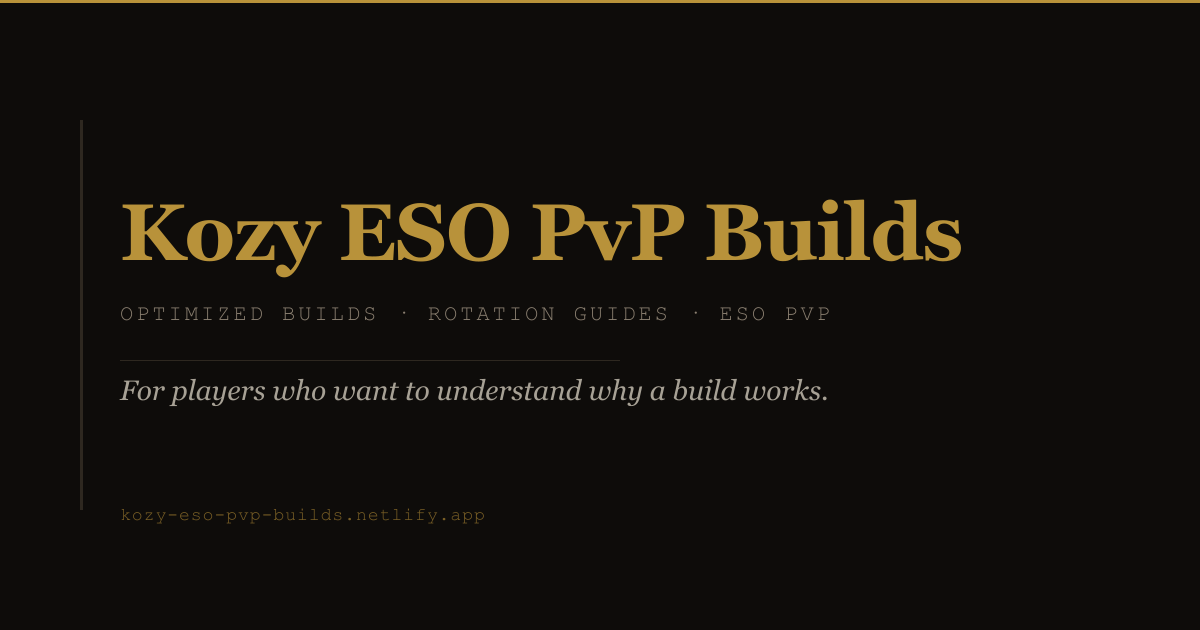
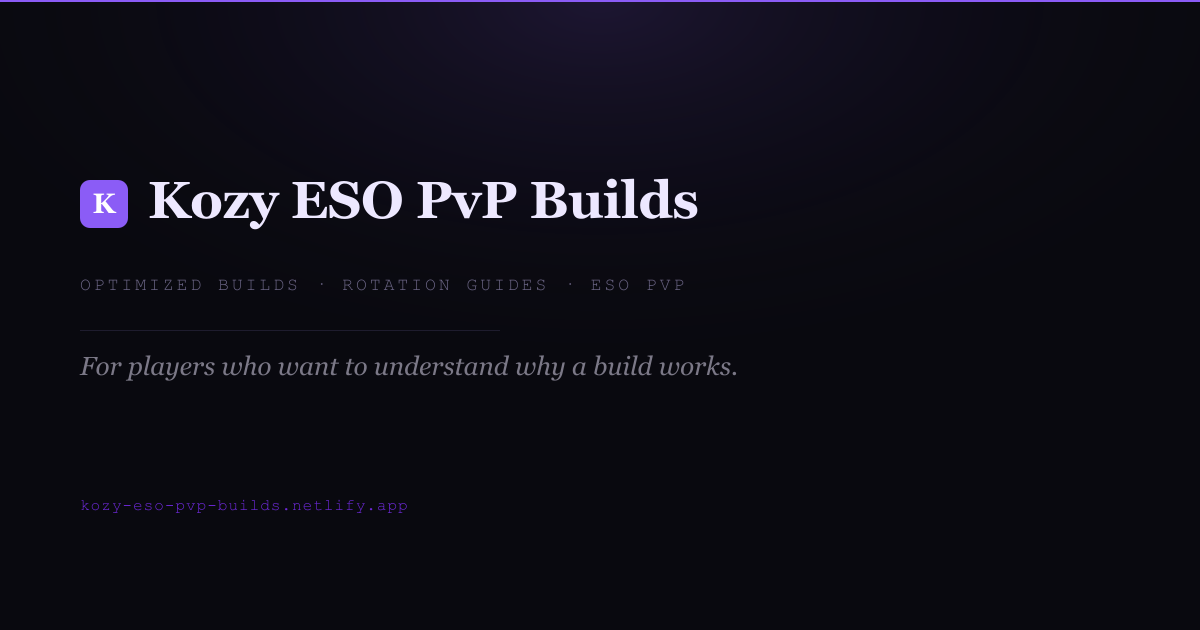
design: black & violet palette, modern header with blur, hero glow

diff --git a/src/styles/global.css b/src/styles/global.css
@@ -3,16 +3,16 @@
 @import "tailwindcss";
 
 @theme {
-  /* Colors */
-  --color-bg:           #0e0c0a;
-  --color-surface:      #1a1714;
-  --color-border:       #2e2820;
-  --color-text:         #e8e0d0;
-  --color-text-muted:   #8a7f70;
-  --color-accent:       #b8923a;
-  --color-accent-dim:   #7a5f25;
-  --color-critical:     #8b2020;
-  --color-mono:         #4a9eff;
+  /* Colors — Black & Violet */
+  --color-bg:           #09090f;
+  --color-surface:      #101018;
+  --color-border:       #1e1c2e;
+  --color-text:         #ede8ff;
+  --color-text-muted:   #6b6585;
+  --color-accent:       #8b5cf6;
+  --color-accent-dim:   #6d28d9;
+  --color-critical:     #ef4444;
+  --color-mono:         #c4b5fd;
 
   /* Fonts */
   --font-display: 'Cormorant Garamond', Georgia, serif;